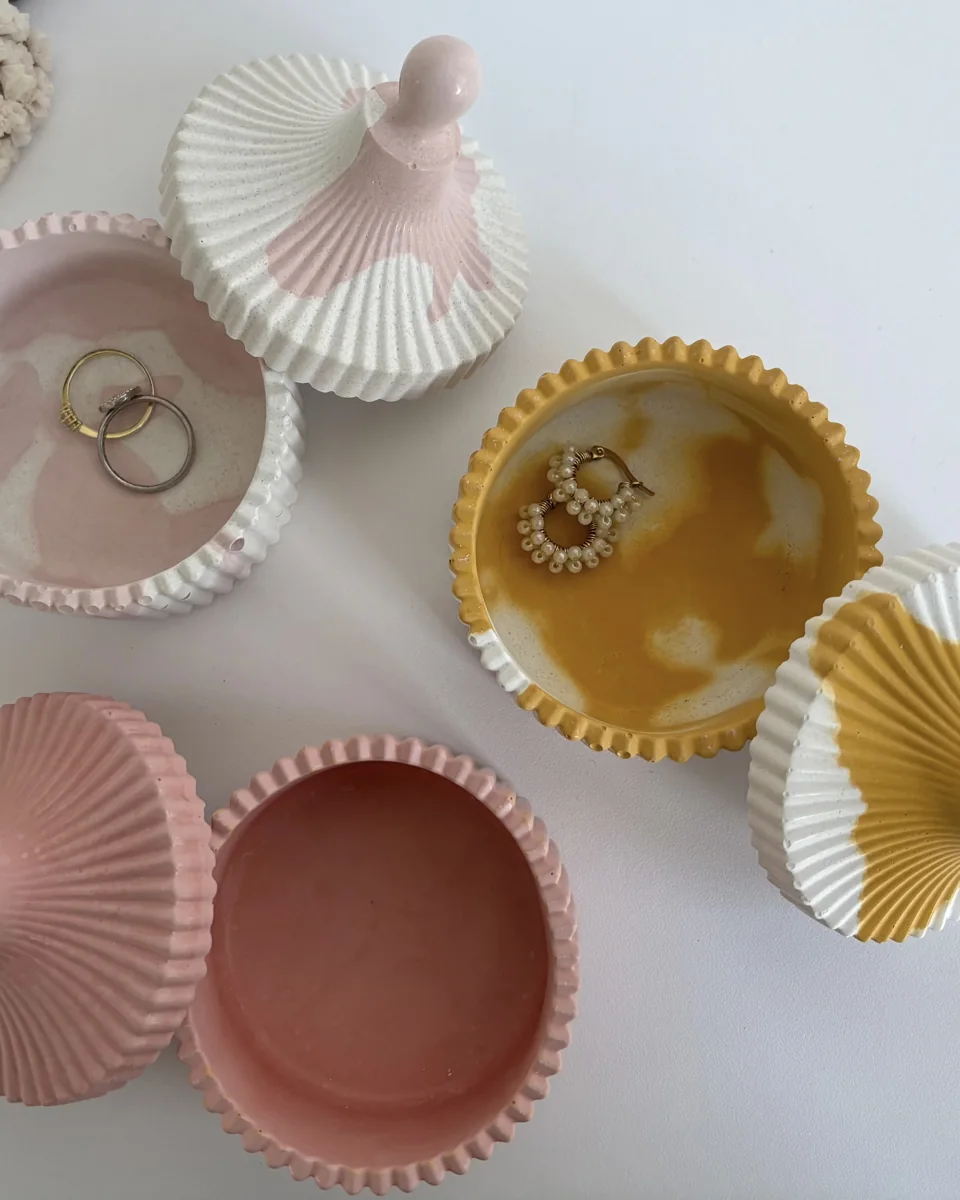
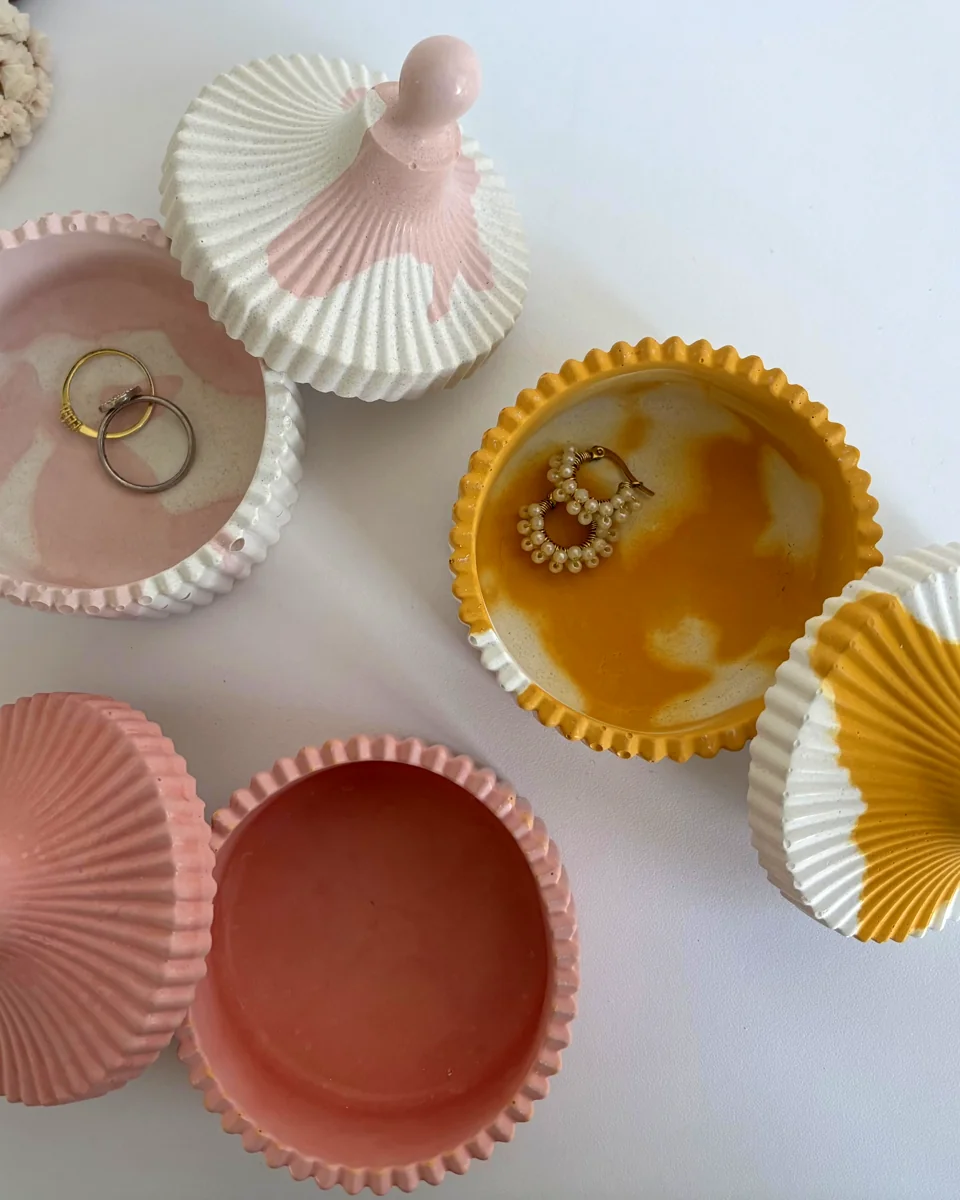
Historia: foto derecha mas vibrante + reposicionar badge; lineas: gradiente alta mas fuerte y baja blanco difuminado; pago: texto 'por privado'

Changed region(s): [[0.4688, 0.2775, 1.0, 0.8017], [0.0625, 0.3392, 0.0938, 0.37]]

diff --git a/index.html b/index.html
@@ -380,8 +380,8 @@
     .photo-fill { width: 100%; height: 100%; object-fit: cover; display: block; }
     .line-card-photo { position: absolute; inset: 0; width: 100%; height: 100%; object-fit: cover; }
     .line-card-scrim { position: absolute; inset: 0; }
-    .line-card.alta .line-card-scrim { background: linear-gradient(to top, rgba(38,58,82,0.88) 0%, rgba(38,58,82,0.30) 45%, rgba(38,58,82,0) 72%); }
-    .line-card.baja .line-card-scrim { background: linear-gradient(to top, rgba(245,240,235,0.92) 0%, rgba(245,240,235,0.35) 45%, rgba(245,240,235,0) 72%); }
+    .line-card.alta .line-card-scrim { background: linear-gradient(to top, rgba(38,58,82,0.96) 0%, rgba(38,58,82,0.78) 30%, rgba(38,58,82,0.35) 55%, rgba(38,58,82,0) 82%); }
+    .line-card.baja .line-card-scrim { background: linear-gradient(to top, rgba(255,255,255,0.98) 0%, rgba(255,255,255,0.82) 32%, rgba(255,255,255,0.45) 55%, rgba(255,255,255,0) 82%); }
     .line-card .line-card-content { z-index: 2; }
     .line-name .line-logo { display:block; width: clamp(120px, 16vw, 185px); height:auto; margin-bottom:0.15rem; }
     /* placeholder colors if no real photos */
@@ -501,8 +501,8 @@
     }
     .hands-label {
       position: absolute;
-      bottom: 1.5rem;
-      right: 1.5rem;
+      bottom: 0.85rem;
+      right: 0.85rem;
       background: var(--blush);
       color: var(--navy);
       font-size: 0.7rem;
@@ -1422,8 +1422,8 @@
             <span data-lang-inline="es">Datos de pago</span>
           </div>
           <div class="transfer-value">
-            <span data-lang-inline="en">We share payment details via Instagram DM when you confirm your order.</span>
-            <span data-lang-inline="es">Los datos de pago se comparten por DM de Instagram al confirmar tu pedido.</span>
+            <span data-lang-inline="en">We share payment details privately when you confirm your order.</span>
+            <span data-lang-inline="es">Los datos de pago se comparten por privado al confirmar tu pedido.</span>
           </div>
         </div>
         <a href="https://www.instagram.com/marea.decor/" target="_blank" class="btn-primary btn-on-navy">